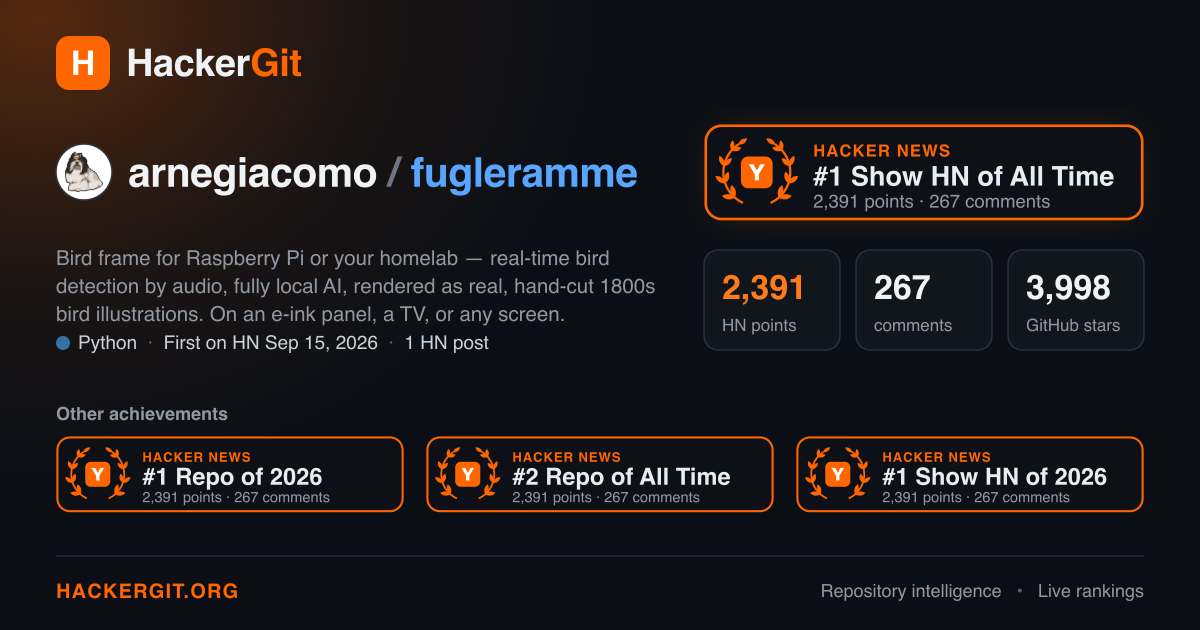
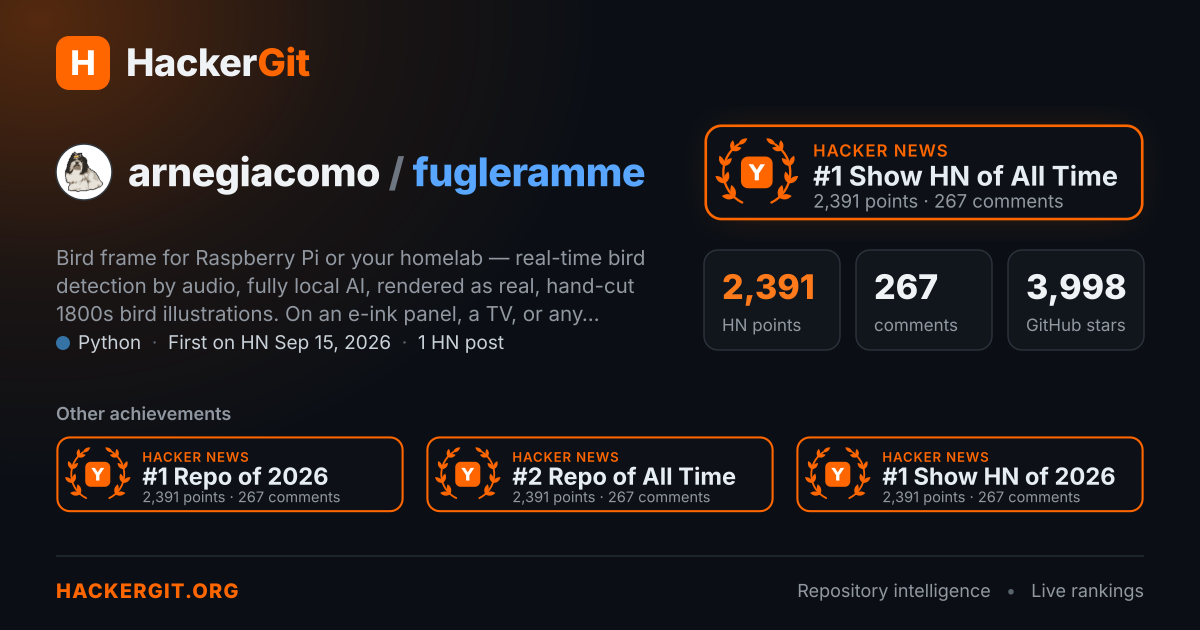
Share cards: draw the embedded badges in Inter, size text for Inter's real widths
On the Ubuntu server the badges inside the share card fell back to DejaVu Sans
(their font stack names only Apple, Windows and Noto fonts), which is much wider,
so "#1 Show HN of All Time" was clipped. badge_card() takes an optional font and
the share card passes Inter; README badges are unchanged.

Text fitting now uses widths measured against Inter's glyph tables (regular ~5%
narrower than the Verdana table, bold ~13% narrower than its bold estimate)
instead of one 0.87 factor, so long descriptions no longer run into the stat
tiles. Checked by rendering with rsvg-convert 2.58 + fonts-inter on Ubuntu 24.04,
the same as production. The README example image is that render.

diff --git a/server.py b/server.py
@@ -712,7 +712,7 @@ def _laurel(cx, cy, r, color, n=4, start=26, end=146, spread=34, L=7.4, w=3.0):
     return (f'<g fill="{color}">{branch}<g transform="translate({2 * cx} 0) scale(-1 1)">{branch}</g></g>')
 
 
-def badge_card(label, big, small, theme="light", muted=False):
+def badge_card(label, big, small, theme="light", muted=False, font=None):
     """A 250x55 card badge (the size Trendshift and similar README cards use); wider only if the text needs it."""
     dark = theme == "dark"
     bg, fg, sub = ("#0d1117", "#e6edf3", "#9198a1") if dark else ("#ffffff", "#1f2328", "#59636e")
@@ -723,7 +723,7 @@ def badge_card(label, big, small, theme="light", muted=False):
     big_fs = max(12.5, min(17.0, 17.0 * room / max(1, _w(big, 17, True) * 0.87)))
     small_fs = max(9.0, min(10.5, 10.5 * room / max(1, _w(small, 10.5) * 0.87)))
     L, B, S = xml_esc(label), xml_esc(big), xml_esc(small)
-    font = "-apple-system,BlinkMacSystemFont,'Segoe UI','Noto Sans',Helvetica,Arial,sans-serif"
+    font = font or "-apple-system,BlinkMacSystemFont,'Segoe UI','Noto Sans',Helvetica,Arial,sans-serif"
     icon_svg = (("" if muted else _laurel(30, 27.5, 19, accent))
                 + f'<rect x="21" y="18.5" width="18" height="18" rx="4" fill="{accent}"/>'
                 + '<text x="30" y="32" fill="#fff" font-family="Verdana,Geneva,DejaVu Sans,sans-serif" '
@@ -822,9 +822,15 @@ def _place(svg, x, y, scale):
                   f'<svg x="{x}" y="{y}" width="{w * scale:.1f}" height="{h * scale:.1f}"', svg.strip(), count=1)
 
 
+def _tw(text, size, bold=False):
+    """Width of text in Inter, from the Verdana table: measured against Inter's real glyph widths, regular text
+    runs ~5% narrower than the table and bold ~13% narrower than its bold estimate (kept with a little slack)."""
+    return _w(text, size, bold) * (0.90 if bold else 0.97)
+
+
 def _fit(text, size, maxw, bold=False, floor=10.0):
-    """Largest font size <= size at which text fits in maxw (Inter runs ~13% narrower than the Verdana table)."""
-    w = _w(text, size, bold) * 0.87
+    """Largest font size <= size at which text fits in maxw."""
+    w = _tw(text, size, bold)
     return max(floor, min(size, size * maxw / max(1.0, w)))
 
 
@@ -832,7 +838,7 @@ def _wrap(text, size, maxw, max_lines):
     words, lines, cur = text.split(), [], ""
     for wd in words:
         t = f"{cur} {wd}".strip()
-        if _w(t, size) * 0.87 <= maxw or not cur:
+        if _tw(t, size) <= maxw or not cur:
             cur = t
         else:
             lines.append(cur)
@@ -843,7 +849,7 @@ def _wrap(text, size, maxw, max_lines):
         lines.append(cur)
     if len(lines) == max_lines and " ".join(lines) != " ".join(words):
         last = lines[-1]
-        while last and _w(last + "…", size) * 0.87 > maxw:
+        while last and _tw(last + "…", size) > maxw:
             last = last[:-1]
         lines[-1] = last.rstrip(" ,.;:-—") + "…"
     return lines
@@ -921,8 +927,8 @@ def og_svg(key, inline_avatar=False):
     tx, tw = 128, LW - 72
     title = f"{owner} / {name}"
     ts = _fit(title, 42, tw, True, floor=24)
-    if _w(title, ts, True) * 0.87 > tw:  # still too long at the floor size: trim the repo name
-        while len(name) > 4 and _w(f"{owner} / {name}…", ts, True) * 0.87 > tw:
+    if _tw(title, ts, True) > tw:  # still too long at the floor size: trim the repo name
+        while len(name) > 4 and _tw(f"{owner} / {name}…", ts, True) > tw:
             name = name[:-1]
         name += "…"
     out.append(f'<text x="{tx}" y="{172 + ts * 0.36:.1f}" xml:space="preserve" font-size="{ts:.1f}" font-weight="800" letter-spacing="-.5">'
@@ -948,7 +954,7 @@ def og_svg(key, inline_avatar=False):
         b, k = badges[0], RW / 250
         out.append(f'<rect x="{RX + 16}" y="{136}" width="{RW - 32}" height="{55 * k - 22:.1f}" rx="16" fill="#ff6600" '
                    'opacity=".28" filter="url(#soft)"/>'
-                   + _place(badge_card("Hacker News", b["big"], b["small"], "dark"), RX, 124, k))
+                   + _place(badge_card("Hacker News", b["big"], b["small"], "dark", font=OG_FONT), RX, 124, k))
 
     # row 2, right: three equal stat tiles spanning the badge's width
     third = (f"{r['stars']:,}", "GitHub stars") if r["stars"] is not None else (f"{r['subs']:,}", "HN posts" if r["subs"] != 1 else "HN post")
@@ -968,7 +974,7 @@ def og_svg(key, inline_avatar=False):
         x0 = 56 + (1088 - (len(more) * 370 - 22)) / 2  # one or two badges sit centred, label above the first
         out.append(f'<text x="{x0:.0f}" y="420" fill="#9198a1" font-size="18" font-weight="600">Other achievements</text>')
         for i, b in enumerate(more):
-            out.append(_place(badge_card("Hacker News", b["big"], b["small"], "dark"), f"{x0 + i * 370:.0f}", 436, 348 / 250))
+            out.append(_place(badge_card("Hacker News", b["big"], b["small"], "dark", font=OG_FONT), f"{x0 + i * 370:.0f}", 436, 348 / 250))
 
     out.append('<line x1="56" y1="556" x2="1144" y2="556" stroke="#232a33" stroke-width="1.5"/>'
                '<text x="56" y="598" fill="#ff6600" font-size="20" font-weight="800" letter-spacing="1.2">HACKERGIT.ORG</text>'
